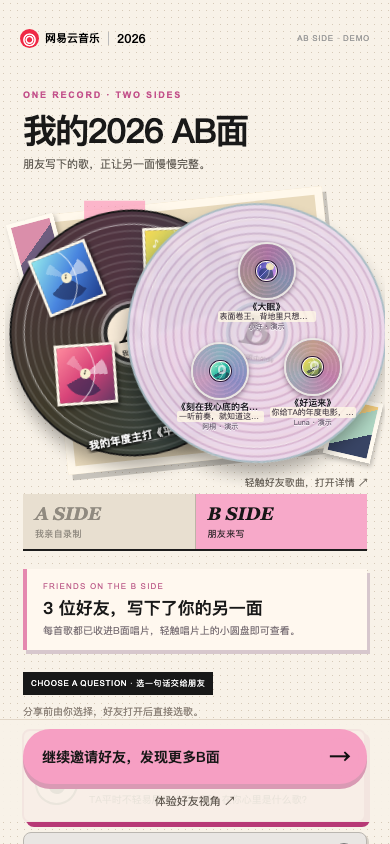
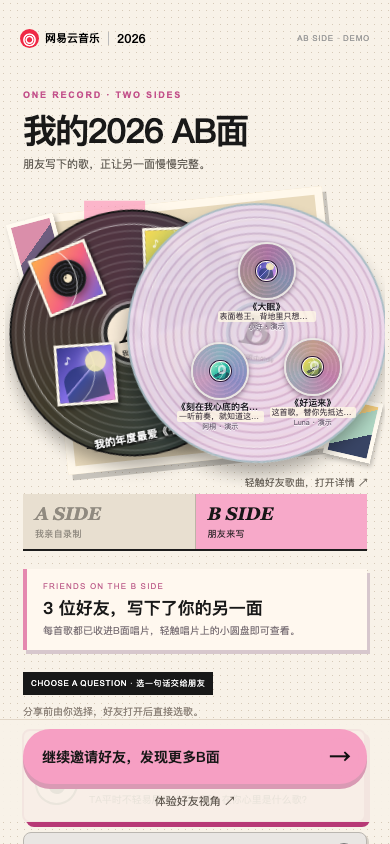
Update A-side mock questions and result cover notes

Changed region(s): [[0.1231, 0.4005, 0.4308, 0.5545], [0.0615, 0.2773, 0.2769, 0.3697], [0.7077, 0.4621, 0.8923, 0.4929]]

diff --git a/src/content.ts b/src/content.ts
@@ -1,4 +1,6 @@
-export type AId = 'A01'|'A02'|'A03'|'A04'|'A05'|'A06'|'A07'|'A08'|'A09'|'A10'
+import { mockReasonFor } from './mockListening'
+
+export type AId = 'A01'|'A02'|'A03'|'A04'|'A05'|'A07'
 export type BId = 'B01'|'B02'|'B03'|'B04'|'B05'|'B06'|'B07'
 export type ASelection = { questionId:AId; songId?:string }
 export type Contribution = { id:string; friendName:string; questionId:BId; songId:string; submittedAt:string; demo?:boolean }
@@ -7,16 +9,11 @@ export type AQuestion = { id:AId; title:string; prompt:string; isDefault:boolean
 export type BQuestion = { id:BId; title:string; prompt:string; isDefault:boolean; availability:'always'|'requires:A01'; badge:string; line:string; palette:string }
 
 export const aQuestions: AQuestion[] = [
-  {id:'A01',title:'年度电影片头曲',prompt:'如果2026年是一部电影，你会给自己选哪首片头曲？',isDefault:true,availability:'always'},
-  {id:'A02',title:'年度本命',prompt:'2026年，哪首歌一响，你就想说：这才是我的菜！',isDefault:false,availability:'always'},
+  {id:'A02',title:'年度本命',prompt:'2026年，哪首歌一响，你就想说：这才是我的菜！',isDefault:true,availability:'always'},
   {id:'A03',title:'年度私藏宝藏',prompt:'2026年，你最想公开安利哪首私藏宝藏歌？',isDefault:true,availability:'always'},
   {id:'A04',title:'最佳现场',prompt:'2026年最难忘的一次现场，哪首歌一响就能让你瞬间回去？',isDefault:false,availability:'always'},
   {id:'A05',title:'独家情绪出口',prompt:'2026年，哪首歌是你的专属情绪避风港？',isDefault:true,availability:'always'},
-  {id:'A06',title:'年度意外心动',prompt:'2026年，哪首歌原本不是你的菜，却越听越上头？',isDefault:true,availability:'always'},
-  {id:'A07',title:'年度精神状态',prompt:'如果只能用一首歌描述你2026年的精神状态，你会选哪首？',isDefault:false,availability:'always'},
-  {id:'A08',title:'年度高光BGM',prompt:'如果给你2026年最闪耀的瞬间配乐，你会选哪首？',isDefault:false,availability:'always'},
-  {id:'A09',title:'年度电影片尾曲',prompt:'如果2026年的电影即将散场，你想让哪首歌在片尾响起？',isDefault:false,availability:'always'},
-  {id:'A10',title:'年度风格偏爱',prompt:'2026年最喜欢的华语/K-pop/说唱/欧美歌曲是哪首？',isDefault:false,availability:'always'},
+  {id:'A07',title:'年度精神状态',prompt:'如果只能用一首歌描述你2026年的精神状态，你会选哪首？',isDefault:true,availability:'always'},
 ]
 export const bQuestions: BQuestion[] = [
   {id:'B01',title:'我眼里的TA',prompt:'如果用一首歌形容2026年的TA，你会选哪首？',isDefault:false,availability:'always',badge:'视角收藏家',line:'原来你眼中的TA，是这样的旋律。',palette:'mint'},
@@ -27,7 +24,7 @@ export const bQuestions: BQuestion[] = [
   {id:'B06',title:'主题曲投反对票',prompt:'TA给自己选好了2026主题曲，但你觉得真正适合TA的是哪首？',isDefault:true,availability:'requires:A01',badge:'年度导演',line:'你给TA的年度电影，换了一首片头曲。',palette:'orange'},
   {id:'B07',title:'歌品反差审判',prompt:'哪首歌看起来和TA八竿子打不着，你却觉得TA私下会偷偷循环？',isDefault:false,availability:'always',badge:'反差鉴定师',line:'这个反差，只有够熟的人才猜得到。',palette:'lime'},
 ]
-export const defaultAIds:AId[]=['A01','A03','A05','A06']
+export const defaultAIds:AId[]=['A02','A03','A05','A07']
 export const defaultBIds:BId[]=['B03','B04','B06','B02']
 // 本地模拟歌曲和推荐理由；封面由 CSS 绘制，不使用真实专辑素材。
 export const songs:Song[]=[
@@ -38,7 +35,7 @@ export const songs:Song[]=[
   {id:'s05',title:'Blueming',artist:'IU',palette:'blue',note:'换一种心情'},
   {id:'s06',title:'Dynamite',artist:'BTS',palette:'gold',note:'适合高光时刻'},
   {id:'s07',title:'晚婚',artist:'李宗盛',palette:'olive',note:'适合安静聆听'},
-  {id:'s08',title:'光年之外',artist:'邓紫棋',palette:'violet',note:'适合电影感'},
+  {id:'s08',title:'光年之外',artist:'G.E.M.邓紫棋',palette:'violet',note:'适合电影感'},
   {id:'s09',title:'至少还有你',artist:'林忆莲',palette:'rose',note:'情绪避风港'},
   {id:'s10',title:'刻在我心底的名字',artist:'卢广仲',palette:'teal',note:'适合回忆片段'},
   {id:'s11',title:'起风了',artist:'买辣椒也用券',palette:'sky',note:'适合重新出发'},
@@ -58,10 +55,16 @@ export const songs:Song[]=[
   {id:'s25',title:'平凡之路',artist:'朴树',palette:'sky',note:'一起走过的路'},
   {id:'s26',title:'最炫民族风',artist:'凤凰传奇',palette:'lime',note:'反差感十足'},
   {id:'s27',title:'学猫叫',artist:'小潘潘、小峰峰',palette:'peach',note:'耳机里的小秘密'},
+  {id:'s28',title:'霓虹甜心',artist:'马赛克乐队',palette:'indigo',note:'适合夜晚重听'},
+  {id:'s29',title:'好想爱这个世界啊',artist:'华晨宇',palette:'azure',note:'适合安静聆听'},
+  {id:'s30',title:'这世界那么多人',artist:'莫文蔚',palette:'rose',note:'熟悉的旋律'},
+  {id:'s31',title:'倔强',artist:'五月天',palette:'coral',note:'适合现场合唱'},
+  {id:'s32',title:'突然好想你',artist:'五月天',palette:'sky',note:'听到前奏就想跟唱'},
+  {id:'s33',title:'稻香',artist:'周杰伦',palette:'gold',note:'熟悉的夏天'},
 ]
 export const demoA:ASelection[]=[
-  {questionId:'A01',songId:'s25'},{questionId:'A03',songId:'s20'},
-  {questionId:'A05',songId:'s09'},{questionId:'A06',songId:'s21'},
+  {questionId:'A02',songId:'s19'},{questionId:'A03',songId:'s20'},
+  {questionId:'A05',songId:'s24'},{questionId:'A07',songId:'s22'},
 ]
 export const demoContributions:Contribution[]=[
   {id:'demo-1',friendName:'小许 · 演示',questionId:'B03',songId:'s24',submittedAt:'2026-10-28T12:00:00+08:00',demo:true},
@@ -81,18 +84,15 @@ export const defaultBFor=(sideA:ASelection[])=>{
   const preferred=preferredIds.map(id=>available.find(q=>q.id===id)).filter((q):q is BQuestion=>Boolean(q))
   return [...preferred,...available.filter(q=>!preferred.some(item=>item.id===q.id))]
 }
-// 歌曲元数据与模拟用户行为分开维护。以下次数/时间均为原型演示值。
-export const mockListeningProfiles = {
-  sample: { playCounts:{s19:128,s20:38,s21:43,s25:86}, recentLoops:{s21:23}, firstHeard:{s21:'8月'}, sharedSongIds:['s01','s09'] },
-  newUser: { playCounts:{}, recentLoops:{}, firstHeard:{}, sharedSongIds:[] },
-} as const
-
+// A面首批严格对应题目示例；换批只在同题候选池中轮换。
+const aRecommendationBatches:Record<string,string[][]> = {
+  A02:[['s19','s18','s08','s01'],['s24','s29','s31','s20']],
+  A03:[['s20','s28','s03','s17'],['s29','s30','s33','s01']],
+  A04:[['s31','s08','s32','s19'],['s18','s01','s20','s24']],
+  A05:[['s29','s24','s30','s33'],['s20','s28','s03','s17']],
+  A07:[['s22','s23','s21','s24'],['s26','s27','s25','s11']],
+}
 const firstBatch:Record<string,string[]> = {
-  A01:['s25','s23','s01','s11'], A02:['s19','s01','s05','s08'],
-  A03:['s20','s02','s04','s10'], A04:['s23','s08','s06','s17'],
-  A05:['s24','s09','s16','s07'], A06:['s21','s13','s12','s18'],
-  A07:['s22','s23','s21','s24'], A08:['s06','s08','s25','s11'],
-  A09:['s15','s24','s07','s16'], A10:['s01','s05','s13','s19'],
   B01:['s21','s25','s17','s26'], B02:['s17','s11','s22','s09'],
   B03:['s24','s26','s27','s21'], B04:['s10','s17','s15','s25'],
   B05:['s20','s05','s18','s02'], B06:['s22','s23','s21','s26'],
@@ -101,20 +101,22 @@ const firstBatch:Record<string,string[]> = {
 const wittyReasons:Record<string,Record<string,string>> = {
   A07:{s22:'🍀 2026主打一个玄学续命',s23:'🔥 每天上班都像在拯救世界',s21:'💗 精神状态稳定地突然发疯',s24:'💤 今年最大的愿望：让我睡会儿'},
   B03:{s24:'表面卷王，背地里只想躺平',s26:'高冷外壳，广场舞灵魂',s27:'外表成熟稳重，耳机里偷偷喵喵喵'},
-  A01:{s23:'今年的主角一出场，就准备拯救世界'},
-}
-const dataReasons:Record<string,Record<string,string>> = {
-  A02:{s19:`2026年循环了${mockListeningProfiles.sample.playCounts.s19}次，你的年度播放TOP 1`},
-  A03:{s20:`今年听了${mockListeningProfiles.sample.playCounts.s20}次，还没分享过`},
-  A06:{s21:`${mockListeningProfiles.sample.firstHeard.s21}第一次听，最近30天循环${mockListeningProfiles.sample.recentLoops.s21}次`},
-  A01:{s25:`这首歌陪你走过了今年的${mockListeningProfiles.sample.playCounts.s25}次播放`},
 }
 export const recommendations=(key:string,batch:number,hasHistory=true):Song[]=>{
+  const aBatches=aRecommendationBatches[key]
+  if (aBatches) {
+    const ids=aBatches[batch%aBatches.length]
+    return ids.map(id=>{
+      const song=songById(id)!
+      const note=key==='A07' ? (wittyReasons.A07[id]??song.note) :
+        hasHistory ? (mockReasonFor(key,id)??'运营主题歌单推荐') : '运营主题歌单推荐'
+      return {...song,note}
+    })
+  }
   const base=firstBatch[key]??firstBatch.B03
   const ids=batch===0?base:Array.from({length:4},(_,i)=>songs[(batch*5+i*4+key.charCodeAt(1))%songs.length].id)
   return ids.map(id=>{
     const song=songById(id)!
-    const note=wittyReasons[key]?.[id]??(hasHistory?dataReasons[key]?.[id]:undefined)??song.note
-    return {...song,note:hasHistory && dataReasons[key]?.[id]?'模拟记录 · '+note:note}
+    return {...song,note:wittyReasons[key]?.[id]??song.note}
   })
 }

diff --git a/src/mockListening.ts b/src/mockListening.ts
@@ -1,0 +1,105 @@
+// 评审演示快照。全部为虚构记录，不代表真实网易云音乐用户数据。
+type SongStats = {
+  yearPlays?: number
+  last7Plays?: number
+  last30Plays?: number
+  lateNightPlays?: number
+  eveningPlays?: number
+  playEvents?: string[]
+  monthlyPlayCounts?: Record<string, number>
+  firstPlayedAt?: string
+  playsAfterFirst?: number
+  heartedAt?: string
+  isHearted?: boolean
+}
+
+export type MockListeningProfile = {
+  snapshotDate: string
+  annualRanking: string[]
+  artistYearPlays: Record<string, number>
+  songStats: Record<string, SongStats>
+}
+
+export const mockListeningProfiles: Record<'sample' | 'newUser', MockListeningProfile> = {
+  sample: {
+    snapshotDate: '2026-10-28',
+    annualRanking: ['s19', 's01', 's18', 's08', 's24', 's29', 's31', 's20', 's03', 's30', 's33', 's17', 's28', 's32'],
+    artistYearPlays: {'G.E.M.邓紫棋': 112},
+    songStats: {
+      s19: {yearPlays: 128},
+      s01: {yearPlays: 93, last30Plays: 23},
+      s18: {yearPlays: 67},
+      s08: {yearPlays: 55, monthlyPlayCounts: {'2026-06': 4, '2026-07': 6, '2026-08': 7, '2026-09': 4, '2026-10': 8}},
+      s24: {yearPlays: 54, last7Plays: 6},
+      s29: {yearPlays: 45, playEvents: ['2026-10-01T22:11', '2026-10-02T21:04', '2026-10-03T23:08', '2026-10-04T22:17', '2026-10-05T21:20', '2026-10-06T22:02', '2026-10-07T23:14', '2026-10-08T21:39', '2026-10-09T22:51']},
+      s31: {yearPlays: 42},
+      s20: {yearPlays: 40, playEvents: ['2026-02-11T03:08', '2026-03-27T03:31', '2026-05-04T03:02', '2026-07-19T03:47', '2026-10-06T03:19']},
+      s03: {yearPlays: 39, monthlyPlayCounts: {'2026-06': 5, '2026-07': 7, '2026-08': 8, '2026-09': 9, '2026-10': 10}},
+      s30: {yearPlays: 37, heartedAt: '2026-03-08', isHearted: true},
+      s33: {yearPlays: 36, eveningPlays: 14},
+      s17: {yearPlays: 33, firstPlayedAt: '2026-05-12T14:30', playsAfterFirst: 32},
+      s28: {yearPlays: 26, lateNightPlays: 11},
+      s32: {yearPlays: 24, last30Plays: 16},
+    },
+  },
+  newUser: {snapshotDate: '2026-10-28', annualRanking: [], artistYearPlays: {}, songStats: {}},
+}
+
+const monthStreak = (counts?: Record<string, number>) => {
+  if (!counts) return 0
+  const months = Object.entries(counts).filter(([, count]) => count > 0).map(([month]) => month).sort()
+  let longest = 0, current = 0, previous = -2
+  for (const month of months) {
+    const [year, number] = month.split('-').map(Number)
+    const index = year * 12 + number
+    current = index === previous + 1 ? current + 1 : 1
+    longest = Math.max(longest, current)
+    previous = index
+  }
+  return longest
+}
+
+const distinctDatesAtHour = (events: string[] | undefined, hour: number) =>
+  new Set((events ?? []).filter(time => Number(time.slice(11, 13)) === hour).map(time => time.slice(0, 10))).size
+
+const recentNightDates = (events: string[] | undefined, snapshotDate: string) => {
+  const snapshot = Date.parse(snapshotDate + 'T00:00:00Z')
+  return new Set((events ?? []).filter(time => {
+    const hour = Number(time.slice(11, 13))
+    const age = (snapshot - Date.parse(time.slice(0, 10) + 'T00:00:00Z')) / 86400000
+    return hour >= 20 && hour <= 23 && age >= 0 && age < 30
+  }).map(time => time.slice(0, 10))).size
+}
+
+export function mockReasonFor(questionId: string, songId: string, profile: MockListeningProfile = mockListeningProfiles.sample): string | undefined {
+  const stats = profile.songStats[songId]
+  if (!stats) return undefined
+  const plays = stats.yearPlays
+  const rank = profile.annualRanking.indexOf(songId) + 1
+  if (questionId === 'A02') {
+    if (songId === 's19' && plays !== undefined && rank === 1) return `2026年累计播放${plays}次，年度播放TOP 1`
+    if (songId === 's18' && plays !== undefined && rank === 3) return `今年累计播放${plays}次，年度播放TOP 3`
+    if (songId === 's08' && monthStreak(stats.monthlyPlayCounts) >= 5) return '连续5个月，你都听过这首歌'
+    if (songId === 's01' && stats.last30Plays !== undefined) return `最近30天，你又听了${stats.last30Plays}次`
+  }
+  if (questionId === 'A03') {
+    const threeAmDates = distinctDatesAtHour(stats.playEvents, 3)
+    if (songId === 's20' && threeAmDates >= 5) return `今年有${threeAmDates}个凌晨3点，你都点开过这首歌`
+    if (songId === 's28' && plays !== undefined && stats.lateNightPlays !== undefined && stats.lateNightPlays <= plays) return `2026年听了${plays}次，其中${stats.lateNightPlays}次是在深夜`
+    if (songId === 's03' && monthStreak(stats.monthlyPlayCounts) >= 5) return '从6月到10月，连续5个月都出现在你的播放记录里'
+    if (songId === 's17' && stats.firstPlayedAt && stats.playsAfterFirst !== undefined && plays === stats.playsAfterFirst + 1) return `今年第一次听到它后，你又听了${stats.playsAfterFirst}次`
+  }
+  if (questionId === 'A04') {
+    if (songId === 's31' && plays !== undefined) return `2026年，你累计播放了${plays}次`
+    if (songId === 's08' && profile.artistYearPlays['G.E.M.邓紫棋'] !== undefined) return `今年听邓紫棋的歌累计${profile.artistYearPlays['G.E.M.邓紫棋']}次`
+    if (songId === 's32' && stats.last30Plays !== undefined) return `最近30天，这首歌播放了${stats.last30Plays}次`
+  }
+  if (questionId === 'A05') {
+    const nights = recentNightDates(stats.playEvents, profile.snapshotDate)
+    if (songId === 's29' && nights >= 9) return `最近30天，有${nights}个夜晚听过这首歌`
+    if (songId === 's24' && plays !== undefined && stats.last7Plays !== undefined) return `今年反复听了${plays}次，最近一周又听了${stats.last7Plays}次`
+    if (songId === 's30' && stats.isHearted && stats.heartedAt) return `这首歌从${Number(stats.heartedAt.slice(5, 7))}月起，一直留在你的红心列表里`
+    if (songId === 's33' && plays !== undefined && stats.eveningPlays !== undefined && stats.eveningPlays <= plays) return `今年累计播放${plays}次，其中${stats.eveningPlays}次在晚上`
+  }
+  return plays === undefined ? undefined : `2026年累计播放${plays}次`
+}

diff --git a/src/App.tsx b/src/App.tsx
@@ -45,12 +45,12 @@ function Vinyl({ palette = 'rainbow', side = 'A', small = false, onClick }: { pa
   return onClick ? <button className={'vinyl vinyl-' + palette + (small ? ' vinyl-small' : '')} onClick={onClick} aria-label="翻转唱片">{contents}</button> :
     <div className={'vinyl vinyl-' + palette + (small ? ' vinyl-small' : '')}>{contents}</div>
 }
-function SongChoices({ list, selected, onSelect }: { list: Song[]; selected?: string; onSelect: (id: string) => void }) {
+function SongChoices({ list, selected, onSelect, host = false }: { list: Song[]; selected?: string; onSelect: (id: string) => void; host?: boolean }) {
   const chosen = songById(selected)
   const display = chosen && !list.some(song => song.id === chosen.id) ? [chosen, ...list] : list
   return <div className="song-list">{display.map((song, i) =>
     <button className={'song-option ' + (selected === song.id ? 'selected' : '')} key={song.id} onClick={() => onSelect(song.id)}>
-      <Cover song={song} /><span className="song-meta"><strong>{song.title}</strong><small>{song.artist}</small><em>{chosen?.id === song.id && i === 0 && !list.some(item => item.id === song.id) ? '搜索选中' : song.note + ' · 模拟推荐'}</em></span>
+      <Cover song={song} /><span className="song-meta"><strong>{song.title}</strong><small>{song.artist}</small><em>{chosen?.id === song.id && i === 0 && !list.some(item => item.id === song.id) ? '自主选择 · 未读取个人播放记录' : host ? song.note : song.note + ' · 模拟推荐'}</em></span>
       <span className="song-radio">{selected === song.id ? '✓' : String.fromCharCode(65 + i)}</span>
     </button>)}</div>
 }
@@ -76,13 +76,11 @@ function HostEditor({ step, slot, slots, draft, batch, select, switchQuestion, s
   switchQuestion:()=>void; switchBatch:()=>void; search:()=>void; back:()=>void; confirm:()=>void; home:()=>void; hasHistory:boolean
 }) {
   const question = aById(slot.questionId)
-  const similar = slot.questionId === 'A09' && slots.some((item, index) => index !== step && item.questionId === 'A01')
   return <main className="screen question-screen"><Brand onHome={home} /><div className="progress-wrap"><span>A SIDE · {String(step+1).padStart(2,'0')}/04</span><div className="progress"><i style={{width:((step+1)*25)+'%'}}></i></div><b>{question.id}</b></div>
-    <div className="question-body"><div className="question-heading"><span className="question-kicker">RECORD YOUR SIDE</span><p className="question-type">{question.title}</p><h2>{question.prompt}</h2><p>选一首歌，写下你愿意展示的2026。</p></div>
-      {similar && <div className="similar-note">片头曲和片尾曲有些相近，试着给它们不同的心情。</div>}
-      <SongChoices list={recommendations(question.id,batch,hasHistory)} selected={draft} onSelect={select} />
+    <div className="question-body"><div className="question-heading"><span className="question-kicker">RECORD YOUR SIDE</span><p className="question-type">{question.title}</p><h2>{question.prompt}</h2><p>{!hasHistory?'通用歌单推荐':question.id==='A07'?'运营创意歌单':'模拟听歌数据'} · 选一首歌，写下你的2026。</p></div>
+      <SongChoices list={recommendations(question.id,batch,hasHistory)} selected={draft} onSelect={select} host />
       <div className="question-tools"><button onClick={switchQuestion}>↻ 换一题</button><button onClick={switchBatch}>⟳ 换一批歌曲</button><button onClick={search}>⌕ 搜索歌曲</button></div>
-      <p className="data-note">{hasHistory?'行为记录与推荐理由均为模拟示例。':'无听歌记录示例：已切换通用主题歌曲池。'} 可换题、换歌或返回修改。</p>
+      <p className="data-note">{!hasHistory?'无听歌数据示例：运营主题歌单推荐，不含个人播放信息。':question.id==='A07'?'本题歌曲与趣味文案为运营创意示例。':'播放记录与推荐理由均为Mock演示数据，不代表真实用户记录。'} 可换题、换歌或返回修改。</p>
     </div><div className="sticky-actions"><button className="back-link" onClick={back}>← {step === 0 ? '返回首页' : '上一题'}</button><Button onClick={confirm} disabled={!draft}>{step === 3 ? '完成我的A面' : '确认，下一题'}</Button></div>
   </main>
 }
@@ -302,7 +300,6 @@ export default function App() {
     const next=Array.from({length:aQuestions.length},(_,index)=>aQuestions[(start+index+1)%aQuestions.length]).find(question=>!used.has(question.id))!
     setSideA(previous=>previous.map((item,index)=>index===step?{questionId:next.id}:item))
     setDraft(undefined);setBatch(0)
-    if ((next.id==='A09'&&used.has('A01'))||(next.id==='A01'&&used.has('A09'))) notify('片头和片尾主题相近，试着选不同心情')
   }
   const confirmHost=()=>{
     if (!draft) return
@@ -344,7 +341,7 @@ export default function App() {
   const menu=[
     {label:'01 活动首页',action:()=>demo('home')},
     {label:'02 A面 · 年度本命',action:()=>{demo('host-edit');setSideA([{questionId:'A02'},...defaultAIds.slice(1).map(questionId=>({questionId}))])}},
-    {label:'03 A面 · 精神状态',action:()=>{demo('host-edit');setSideA([{questionId:'A07'},...defaultAIds.slice(1).map(questionId=>({questionId}))])}},
+    {label:'03 A面 · 精神状态',action:()=>{demo('host-edit');setSideA([{questionId:'A07'},...defaultAIds.filter(id=>id!=='A07').slice(0,3).map(questionId=>({questionId}))])}},
     {label:'04 A面完成',action:()=>demo('host-result')},
     {label:'05 B面问号 · 选题',action:()=>{demo('host-result');setResultSide('B')}},
     {label:'06 B面切换题目',action:()=>{demo('host-result');setResultSide('B');setSelectedB('B04')}},

diff --git a/src/styles.css b/src/styles.css
@@ -58,3 +58,4 @@
 .b-face-entry b{font-size:9px}.b-face-entry .b-face-note{width:100%;background:#fff9e6c9;border-radius:2px;padding:1px 2px;font-size:8px;line-height:9px;color:#4e454d;text-shadow:none}.b-face-entry .b-face-owner{font-size:7px;line-height:9px}
 .b-face-contributions.count-2,.b-face-contributions.count-3{grid-auto-rows:96px}
 @media(max-width:375px){.record-caption b,.record-caption strong{font-size:7px}.record-caption small{font-size:6px;line-height:7px}.b-face-entry b{font-size:7px}.b-face-entry .b-face-note,.b-face-entry .b-face-owner{font-size:6px;line-height:7px}.b-face-contributions.count-2,.b-face-contributions.count-3{grid-auto-rows:78px}}
+.question-screen:not(.guest-song-screen) .song-meta em{display:-webkit-box;-webkit-box-orient:vertical;-webkit-line-clamp:2;overflow:hidden}

diff --git a/README.md b/README.md
@@ -11,7 +11,7 @@ npm install
 npm run dev
 ```
 
-浏览器打开 <http://127.0.0.1:5173/>。桌面端左侧提供评审导航；手机端按单页面流程体验。独立客态示例链接：<https://cecilia-huu.github.io/netease-2026-ab-side/?view=guest&a=A01%3As25%2CA03%3As20%2CA05%3As09%2CA06%3As21&b=B03&name=%E9%98%BF%E4%BA%91>。
+浏览器打开 <http://127.0.0.1:5173/>。桌面端左侧提供评审导航；手机端按单页面流程体验。独立客态示例链接：<https://cecilia-huu.github.io/netease-2026-ab-side/?view=guest&a=A02%3As19%2CA03%3As20%2CA05%3As24%2CA07%3As22&b=B03&name=%E9%98%BF%E4%BA%91>。A面播放记录与推荐理由均为2026-10-28演示快照的Mock数据。
 
 ```bash
 npm run build
